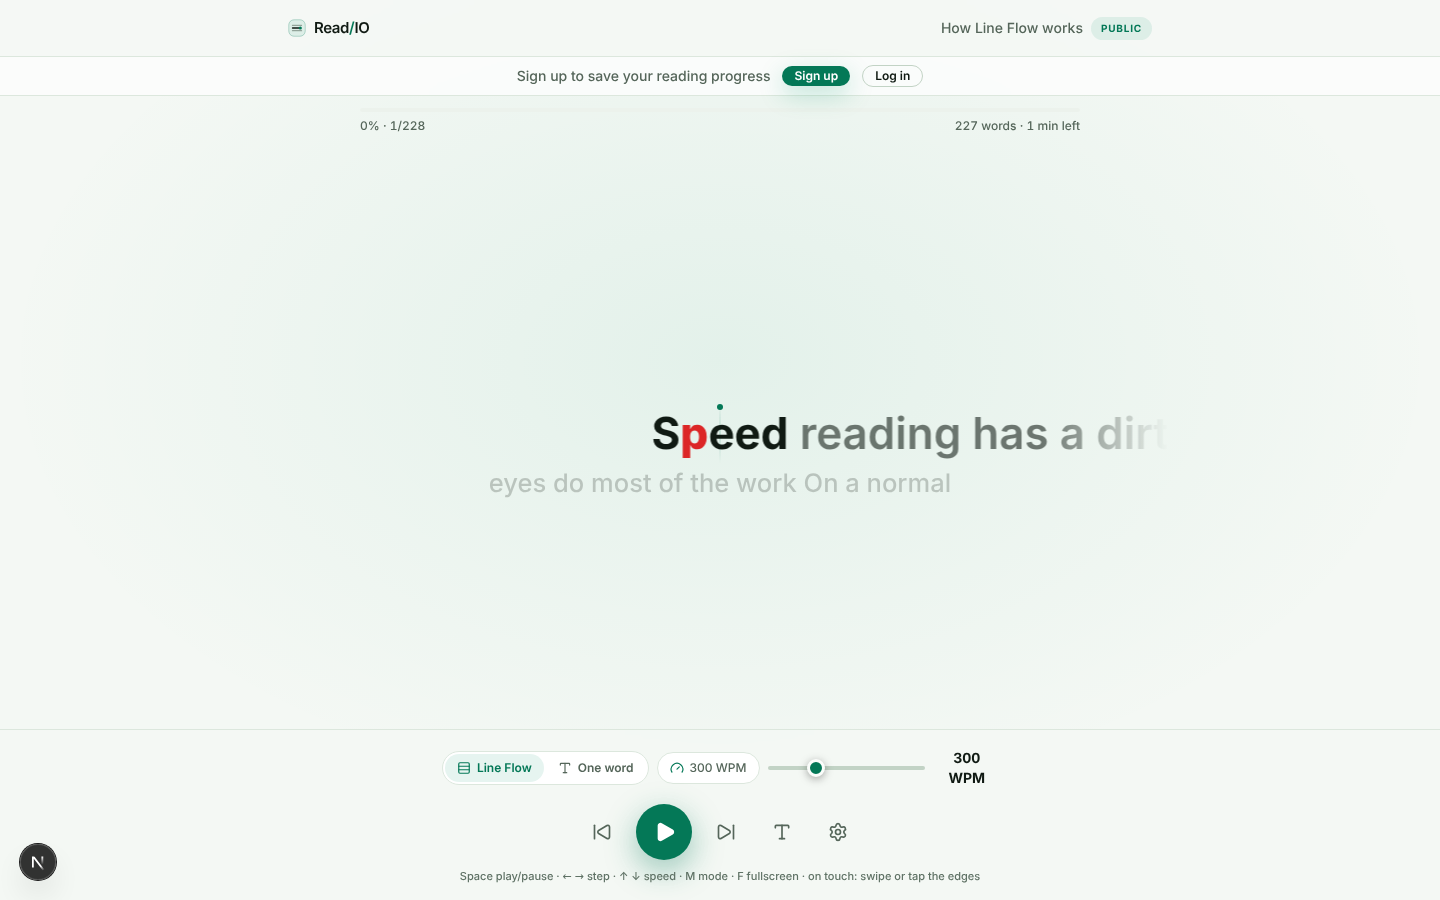
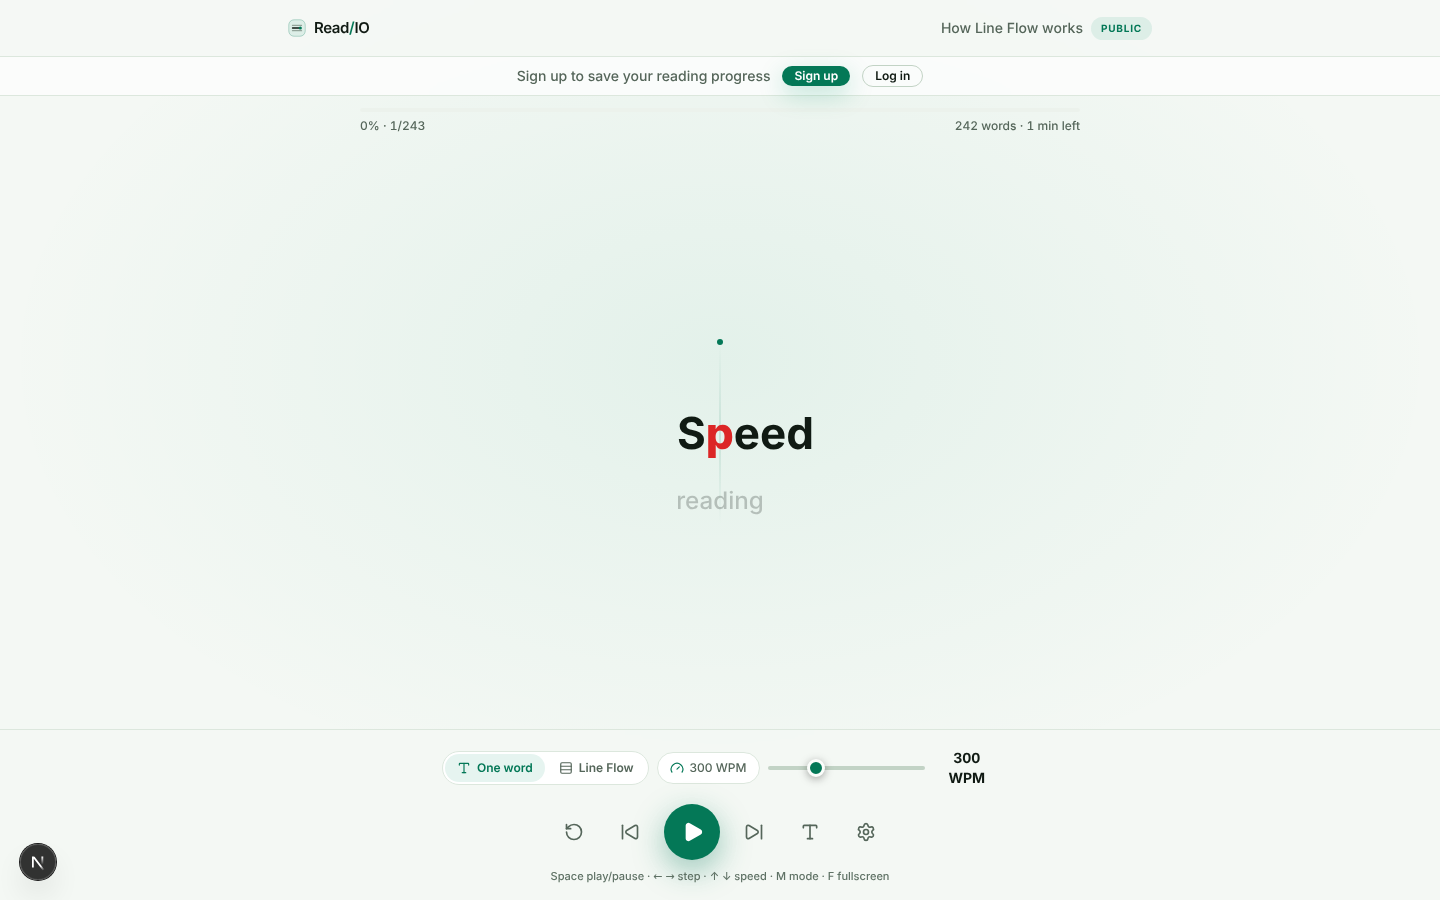
Reader: zero-drift Line Flow pivot, reset control, one-word default
- LineStage: align the ORP character (red pivot) to the centre axis
  instead of the word centre — the fixation point now lands on the same
  pixel for every word (measured max 0.48px subpixel offset across 13
  words, vs a 2-15px per-word ORP offset before); math tokens fall back
  to the word centre
- ReaderControls/Reader: new 'Back to the beginning' reset button
  (RotateCcw) wired to seek(0)
- DEFAULT_READING_MODE flipped to 'word'; segmented control reordered
  with One word primary, Line Flow secondary (stored mode preserved)
- Copy: README mode table + demo sample text updated to match
- Audit + screenshots refreshed (after-demo-lineflow-1440, extra widths)

Changed region(s): [[0.3438, 0.4667, 0.8125, 0.5911], [0.3125, 0.8711, 0.6875, 0.9956], [0.3125, 0.84, 0.4375, 0.8711]]

diff --git a/web/src/components/reader/ReaderControls.tsx b/web/src/components/reader/ReaderControls.tsx
@@ -4,6 +4,7 @@ import {
   Gauge,
   Pause,
   Play,
+  RotateCcw,
   Rows3,
   Settings,
   SkipBack,
@@ -42,6 +43,7 @@ export default function ReaderControls({
   setOpenPanel,
   onStep,
   onTogglePlay,
+  onReset,
 }: {
   settings: ReaderSettings;
   playing: boolean;
@@ -51,6 +53,7 @@ export default function ReaderControls({
   setOpenPanel: (panel: ReaderPanel | null) => void;
   onStep: (delta: number) => void;
   onTogglePlay: () => void;
+  onReset: () => void;
 }) {
   const panelToggle = (panel: ReaderPanel) => () =>
     setOpenPanel(openPanel === panel ? null : panel);
@@ -116,6 +119,16 @@ export default function ReaderControls({
           className={clsx(iconButton, "md:hidden")}
         >
           <Settings className="h-5 w-5" />
+        </button>
+
+        <button
+          type="button"
+          onClick={onReset}
+          aria-label="Back to the beginning"
+          title="Back to the beginning"
+          className={iconButton}
+        >
+          <RotateCcw className="h-5 w-5" />
         </button>
 
         <button
@@ -213,7 +226,8 @@ export default function ReaderControls({
   );
 }
 
-/** Line Flow vs single word — the reader's two display modes. */
+/** One word vs Line Flow — the reader's two display modes.
+ * One word is the default; Line Flow is the secondary mode. */
 export function ModeSegmented({
   mode,
   onChange,
@@ -228,18 +242,18 @@ export function ModeSegmented({
       aria-label="Reading mode"
     >
       <ModeOption
-        active={mode === "line"}
-        onClick={() => onChange("line")}
-        label="Line Flow"
-        short="Line"
-        icon={<Rows3 className="h-3.5 w-3.5" />}
-      />
-      <ModeOption
         active={mode === "word"}
         onClick={() => onChange("word")}
         label="One word"
         short="Word"
         icon={<Type className="h-3.5 w-3.5" />}
+      />
+      <ModeOption
+        active={mode === "line"}
+        onClick={() => onChange("line")}
+        label="Line Flow"
+        short="Line"
+        icon={<Rows3 className="h-3.5 w-3.5" />}
       />
     </div>
   );

diff --git a/web/src/components/reader/LineStage.tsx b/web/src/components/reader/LineStage.tsx
@@ -21,10 +21,10 @@ import {
  * Line Flow — the whole line, one fixation.
  *
  * Classic RSVP flashes a single word; Line Flow shows the *entire current
- * line* as a horizontal strip and slides it so the focused word stays at the
- * stage's centre axis. The line advances under a perfectly still eye: context
- * comes from the periphery, precision from the fixed red pivot. The pivot
- * is held for the whole word rather than jumping to each word's ORP character.
+ * line* as a horizontal strip and slides it so the focused word's ORP
+ * character — the red pivot letter — lands exactly on the stage's centre
+ * axis. The line advances under a perfectly still eye: context comes from
+ * the periphery, and the fixation point never moves between words.
  *
  * Positioning is measured, not guessed: after each render a layout effect
  * reads the focused word's real offset and writes the strip transform before
@@ -185,10 +185,12 @@ export default function LineStage({
     const lineWrap = lineWrapRef.current;
     if (!strip || !lineWrap || !isLineRow) return;
 
-    // Align the whole current word, not its ORP character. This means the
-    // focus point stays fixed for the entire word; advancing to another word
-    // is the only time the strip needs to move.
-    const target = wordEls.current[index];
+    // Pin the focused word's ORP character — the red pivot letter — exactly
+    // on the centre axis. Measuring the ORP letter (not the word centre) is
+    // what makes the fixation point land on the same pixel for every word:
+    // zero eye travel, while the rest of the word shifts around it.
+    // Words without an ORP split (formulas) fall back to the word centre.
+    const target = orpEls.current[index] ?? wordEls.current[index];
     if (!target) return;
 
     // offsetLeft is measured against the strip (the nearest positioned

diff --git a/web/src/app/demo/demo-reader.tsx b/web/src/app/demo/demo-reader.tsx
@@ -26,10 +26,12 @@ of meaning arriving at the speed you choose, from a calm two hundred words
 per minute up to a sprinting eight hundred. Figures pause themselves.
 Formulas get extra time. Your place is saved to the word, on every device.
 
-Everything you are experiencing right now is the real reader. Switch to the
-one-word mode below, change the speed, resize the window, or open this page
-on your phone and try the swipe gestures. When you are ready, sign up free
-and point Readio at your own PDFs, documents, notes, and YouTube transcripts.
+You are reading this in one-word mode. Switch to Line Flow and the whole
+line slides under that same fixed point. Everything you are experiencing
+right now is the real reader — change the speed, resize the window, or open
+this page on your phone and try the swipe gestures. When you are ready, sign
+up free and point Readio at your own PDFs, documents, notes, and YouTube
+transcripts.
 `;
 
 const DEMO_DOC = {

diff --git a/web/src/lib/constants.ts b/web/src/lib/constants.ts
@@ -61,7 +61,7 @@ export interface ReaderPrefs {
  */
 export type ReadingMode = "line" | "word";
 export const READING_MODES: readonly ReadingMode[] = ["line", "word"];
-export const DEFAULT_READING_MODE: ReadingMode = "line";
+export const DEFAULT_READING_MODE: ReadingMode = "word";
 
 /**
  * Line Flow packs words into display lines up to this fraction of the stage

diff --git a/web/src/components/Reader.tsx b/web/src/components/Reader.tsx
@@ -635,6 +635,10 @@ export default function ReaderClient({
           setOpenPanel={setOpenPanel}
           onStep={step}
           onTogglePlay={togglePlay}
+          onReset={() => {
+            seek(0);
+            toast.success("Back to the beginning", { id: "reader-reset" });
+          }}
         />
 
         {!isFullscreen && (

diff --git a/docs/redesign/AUDIT.md b/docs/redesign/AUDIT.md
@@ -69,11 +69,42 @@ green deepened `#059669 → #047857` (both near-indistinguishable, both now
 | Dead CSS | ✅ none |
 | Branding grep | ✅ 0 `ReadIO`, 0 legacy dark-theme hexes |
 
+## Reader polish (follow-up on the same branch)
+
+Three user-requested reader fixes, all shipped on this branch:
+
+1. **Zero eye travel in Line Flow** — root cause: the strip aligned the
+   *word centre* to the axis, so the red ORP character (the designated
+   fixation point) sat off-axis by a per-word ORP offset. Fix
+   (`reader/LineStage.tsx`): the alignment pivot is now the ORP character
+   element itself, so the red letter lands on the exact same pixel for
+   every word; formula tokens (no ORP split) fall back to the word
+   centre. Measured headless across 13 consecutive words: ORP letter
+   centre within **0.48px** of the axis on every word (subpixel,
+   `offsetLeft` integer rounding) — previously the letter moved a full
+   ORP offset (2–15px) between words.
+2. **Reset control** — new "Back to the beginning" button
+   (`RotateCcw`, `reader/ReaderControls.tsx`), wired to the engine's
+   `seek(0)` in `Reader.tsx` with a toast; verified to return to word 1.
+3. **One word = default mode** — `DEFAULT_READING_MODE` flipped
+   `"line" → "word"` (`lib/constants.ts`); the segmented control was
+   reordered with One word primary and Line Flow secondary. Devices with
+   a saved mode keep it (localStorage), so the flip only affects fresh
+   visitors.
+
+All gates re-run after these changes: production build 15/15, 123/123
+tests, eslint 0, CLS 0.0000 on every page × width, no console/hydration
+errors.
+
 ## Screenshots
 
 - `before-home-1440-full.png` / `before-login-1440.png` — the reverted-to
   Paper state (previous PR revision)
-- `after-home-1440-full.png` / `after-home-375.png` — restored original
+- `after-home-1440-full.png` / `after-home-375.png` /
+  `after-home-768.png` / `after-home-1280.png` — restored original
   UI/UX on white
-- `after-demo-1440.png` — the original reader with the **red ORP pivot**
-- `after-login-1440.png` — original auth on white
+- `after-demo-1440.png` — reader default: **One word** mode, red ORP
+  pivot, reset control in the transport row
+- `after-demo-lineflow-1440.png` — Line Flow with the red ORP character
+  pinned to the centre axis (zero eye travel)
+- `after-login-1440.png` / `after-login-375.png` — original auth on white

diff --git a/README.md b/README.md
@@ -27,8 +27,8 @@ White-first, green-toned UI with a full token system in
 
 | Mode | Behaviour |
 | ---- | --------- |
-| **Line Flow** (default) | The current line is laid out from measured text metrics (`lib/lines.ts` + `hooks/useLineLayout.ts`) and slides horizontally so the focused word stays pinned to the centre axis for its entire duration. Neighbouring lines are dimmed above/below. `components/reader/LineStage.tsx` |
-| **One word** | Classic RSVP: a single word, ORP-locked to the centre by measurement (`OrpWord.tsx`), with faded previous/next word previews |
+| **One word** (default) | Classic RSVP: a single word, ORP-locked to the centre by measurement (`OrpWord.tsx`), with faded previous/next word previews |
+| **Line Flow** | The current line is laid out from measured text metrics (`lib/lines.ts` + `hooks/useLineLayout.ts`) and slides horizontally so the focused word's ORP character stays pinned to the centre axis for its entire duration. Neighbouring lines are dimmed above/below. `components/reader/LineStage.tsx` |
 
 The mode is stored per device in localStorage (`lib/reader-mode.ts`) — no
 schema change needed. Press `M` (or use the segmented control) to switch.
